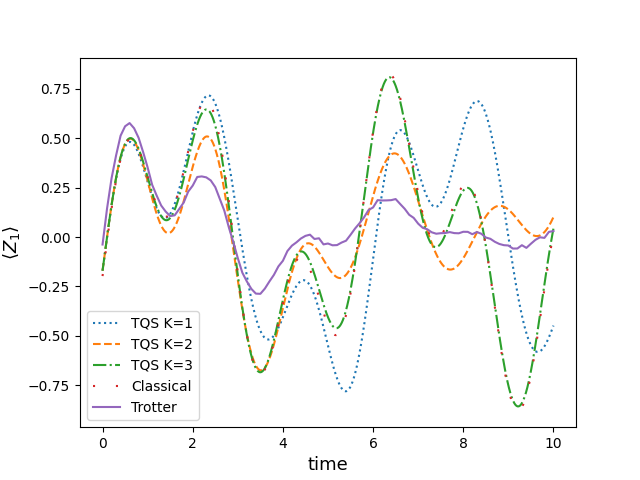
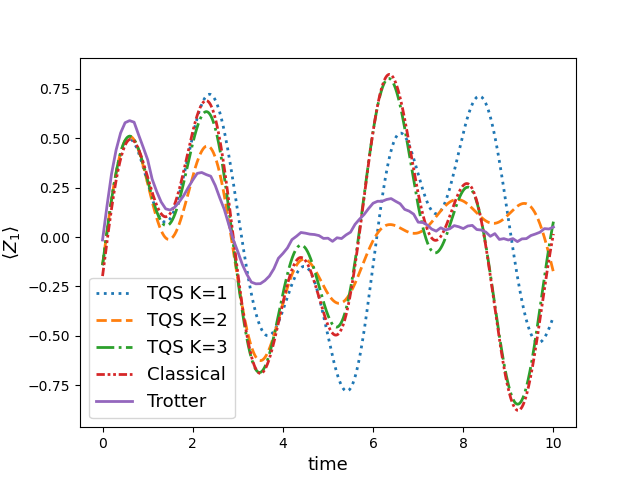
Jon

diff --git a/Forjontoteststuff.py b/Forjontoteststuff.py
@@ -25,6 +25,7 @@ optimizer ='eigh' #'eigh','qcqp'
 inv_cond = 10**(-3)
 numberoflayers = 3
 setlinewidth=2
+setlegendsize=13
 trotter_num_steps = 101
 trotter_timestep = endtime/(trotter_num_steps-1)
 
@@ -149,7 +150,7 @@ ttqsdata = plotp.get_data_forobservable(num_qubits,finalresults,times,whatK,'TQS
 #Plotting classical result
 observablematrix = observable.to_matrixform()
 classicalresult = cS_instance.get_expectations_observables(observablematrix)
-plotp.CS_plotter_forobservable(times,classicalresult,line_style=(0, (1, 10)),linewidths=setlinewidth)
+plotp.CS_plotter_forobservable(times,classicalresult,line_style=(0, (3, 1, 1, 1, 1, 1)),linewidths=setlinewidth)
 
 #get data for printing
 
@@ -220,7 +221,7 @@ for i in range(trotter_num_steps):
 
 plotp.plotter_fortrotter(trottervalues,trottertimes,linewidths=setlinewidth)
 plotp.set_axis_labels("time","$\\langle Z_1 \\rangle$",13)
-plotp.print_plot("Jonstufftesting/plottqstrot.png")
+plotp.print_plot("Jonstufftesting/plottqstrot.png",legendsize=setlegendsize)
 #scipy.io.savemat("Jonstufftesting/trotterdata.mat",{'Trotter_observable':np.array(trottervalues),'Trotter_times':np.array(trottertimes)})
 '''
 #Show plot

diff --git a/plotting_package.py b/plotting_package.py
@@ -131,8 +131,8 @@ def show_plot():
     plt.legend()
     plt.show()
 
-def print_plot(location,bboxtight=False):
-    plt.legend()
+def print_plot(location,bboxtight=False,legendsize=10):
+    plt.legend(prop={'size': legendsize})
     if bboxtight == "tight":
         plt.savefig(location,bbox_inches="tight")
     else:
